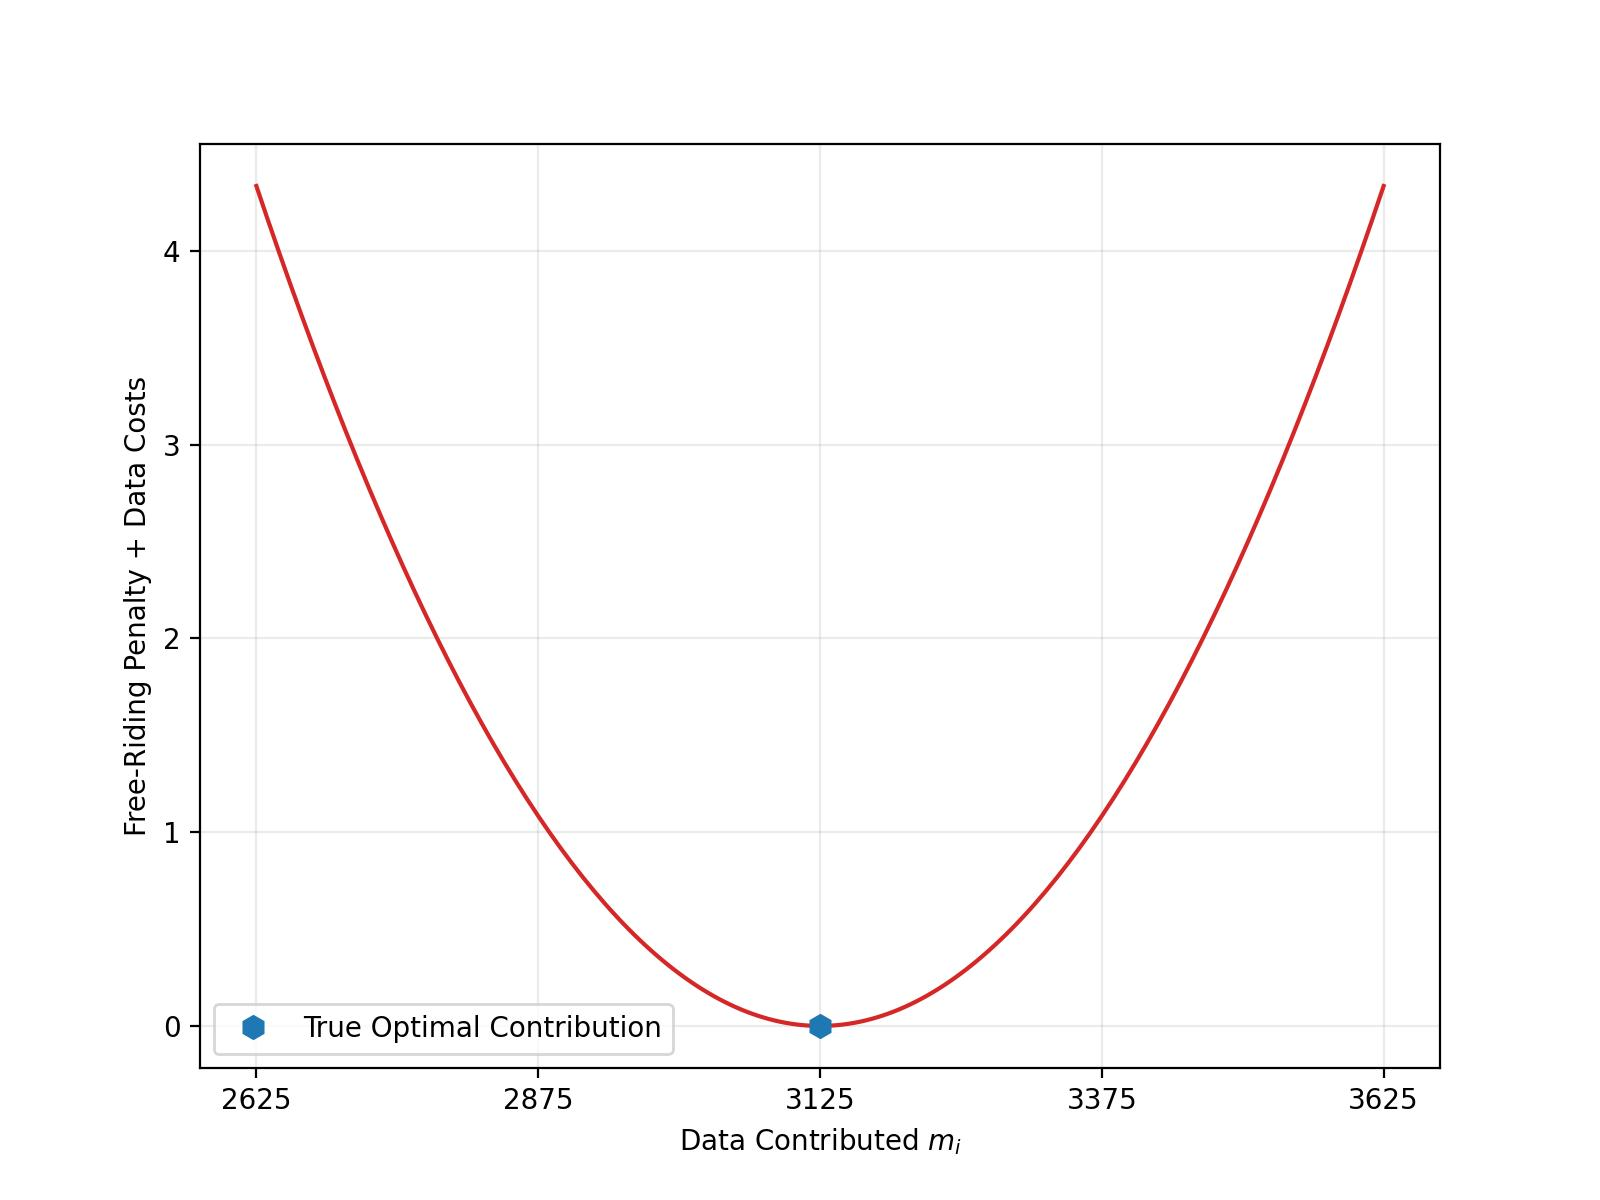
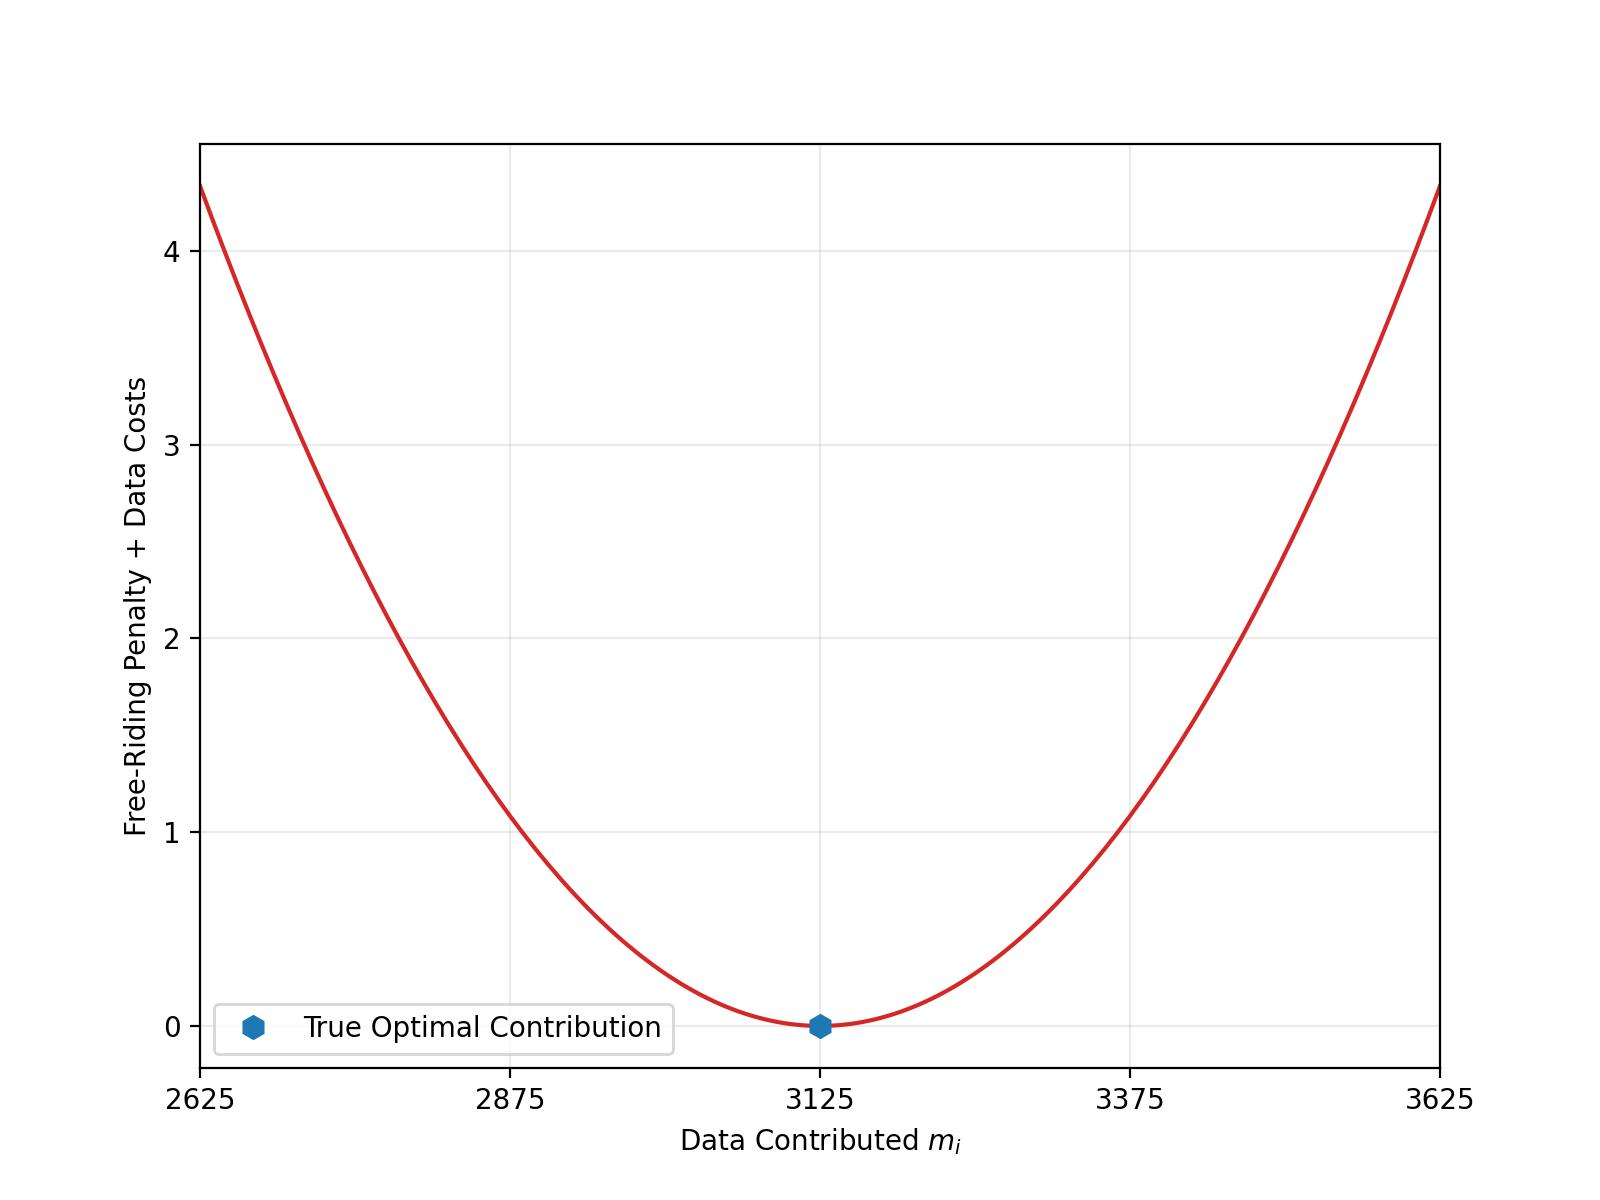
update free-riding plot

diff --git a/experiments.py b/experiments.py
@@ -44,8 +44,9 @@ class Postprocessing:
                  label='True Optimal Contribution')
         plt.xlabel('Data Contributed $m_i$')
         plt.ylabel('Free-Riding Penalty + Data Costs')
-        plt.legend(loc='best')
+        plt.legend(loc='lower left')
         plt.xticks(vary_data[::50])
+        plt.xlim([num_data - 500, num_data + 500])
         plt.grid(alpha=0.25)
 
         # save figure
@@ -326,15 +327,15 @@ if __name__ == '__main__':
     # pp.run_loss_plot(cifar10_random_path_noniid6, save_file='noniid6-2')
 
     # loss histogram and truthfulness plots
-    pp.run_loss_histogram(cifar10_random_path_iid, save_file='iid')
-    pp.run_loss_histogram(cifar10_random_path_noniid6, save_file='noniid6')
-    pp.run_loss_histogram(cifar10_random_path_noniid3, save_file='noniid3')
+    # pp.run_loss_histogram(cifar10_random_path_iid, save_file='iid')
+    # pp.run_loss_histogram(cifar10_random_path_noniid6, save_file='noniid6')
+    # pp.run_loss_histogram(cifar10_random_path_noniid3, save_file='noniid3')
 
     # penalty for using sub-optimal data contributions
 
     # initialize lambda -- add into the loss computations
     # compute how penalty increases with a very large lambda
 
-    # pp.penalty(mnist_random_path_noniid3, save_file='penalty')
+    pp.penalty(cifar10_random_path_noniid3, save_file='penalty')
 
 
